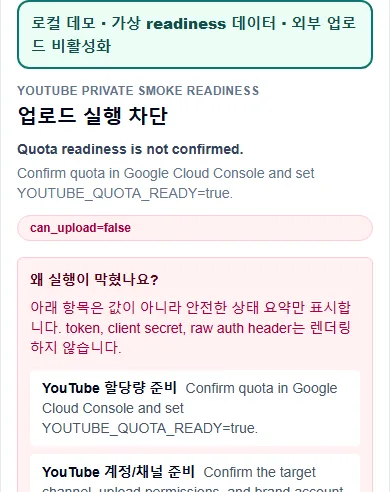
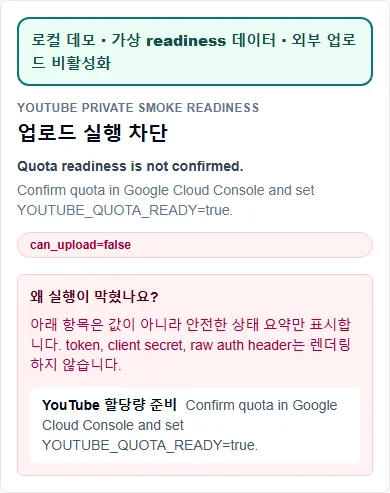
fix(evidence): complete final mobile recaptures

diff --git a/config/evidence-sources.ts b/config/evidence-sources.ts
@@ -23,6 +23,9 @@ export type EvidenceCaptureDefinition = {
   textReplacements?: Array<{ selector: string; value: string }>;
   textSubstitutions?: Array<{ from: string; to: string }>;
   disclosureLabel?: string;
+  focusedListItem?: { listSelector: string; includesText: string };
+  requiredVisibleText?: string[];
+  forbiddenVisibleText?: string[];
   settleTimeMs?: number;
   transformations: string[];
   maskSelectors: string[];
@@ -57,11 +60,6 @@ export const evidenceCaptureDefinitions: EvidenceCaptureDefinition[] = [
     route: "/uploads",
     readySelector: "h1:has-text('업로드 준비 대시보드')",
     captureSelector: "main > div.space-y-5 > section:nth-of-type(3)",
-    captureBounds: {
-      startSelector: "[data-evidence-disclosure]",
-      endSelector:
-        "main > div.space-y-5 > section:nth-of-type(3) > div:nth-of-type(2) > div:first-child",
-    },
     captureStyle: `
       main > div.space-y-5 > section:nth-of-type(3) {
         width: 390px !important;
@@ -78,16 +76,41 @@ export const evidenceCaptureDefinitions: EvidenceCaptureDefinition[] = [
         font-size: 15px !important;
         line-height: 1.6 !important;
       }
+      main > div.space-y-5 > section:nth-of-type(3) ul > li ~ li,
+      main > div.space-y-5 > section:nth-of-type(3) > div:nth-of-type(2) > div + div,
+      main > div.space-y-5 > section:nth-of-type(3) > div:nth-of-type(n+3) {
+        display: none !important;
+      }
     `,
     disclosureLabel: "로컬 데모 · 가상 readiness 데이터 · 외부 업로드 비활성화",
+    focusedListItem: {
+      listSelector:
+        "main > div.space-y-5 > section:nth-of-type(3) > div:nth-of-type(2) > div:first-child > ul",
+      includesText: "YouTube 할당량 준비",
+    },
+    requiredVisibleText: [
+      "로컬 데모",
+      "외부 업로드 비활성화",
+      "업로드 실행 차단",
+      "왜 실행이 막혔나요?",
+      "YouTube 할당량 준비",
+      "Confirm quota in Google Cloud Console and set YOUTUBE_QUOTA_READY=true.",
+      "token, client secret, raw auth header는 렌더링하지 않습니다.",
+    ],
     transformations: [
       "390px 세로형으로 기존 readiness 섹션을 재배치",
-      "기존 차단 사유 패널까지만 집중 캡처",
+      "첫 번째 차단 사유와 사람의 다음 조치를 행 전체로 표시",
+      "추가 차단 항목과 관련 없는 서버 env 안내 카드 제외",
+      "외곽 readiness 섹션의 하단 padding까지 전체 캡처해 카드 중간 잘림 방지",
       "로컬 데모·외부 업로드 비활성화 disclosure 배너 추가",
       "navigation·Next.js 개발 overlay 제외",
     ],
     maskSelectors: [],
-    hideSelectors: ["nextjs-portal"],
+    hideSelectors: [
+      "nextjs-portal",
+      "main > div.space-y-5 > section:nth-of-type(3) > div:nth-of-type(2) > div:nth-child(2)",
+      "main > div.space-y-5 > section:nth-of-type(3) > div:nth-of-type(n+3)",
+    ],
     viewport: { width: 460, height: 1100 },
     altKo: "외부 업로드 가능 여부와 차단 사유, 다음 조치가 분리된 승인형 자동화 준비 화면",
     captionKo:
@@ -95,6 +118,7 @@ export const evidenceCaptureDefinitions: EvidenceCaptureDefinition[] = [
     dataMode: "local-demo",
     claimSupportedKo: "승인 문구와 준비 조건이 충족되기 전 외부 업로드를 차단하는 UI 경계",
     claimNotSupportedKo: "실제 플랫폼 업로드 성공, 매출 또는 운영시간 절감",
+    minRenderedHeightAt390: 420,
   },
   {
     id: "commerce-run-audit-log",
@@ -355,6 +379,12 @@ export const evidenceCaptureDefinitions: EvidenceCaptureDefinition[] = [
     textReplacements: [
       {
         selector:
+          "main[data-demo-dashboard='readonly'] > div > div:first-child p",
+        value:
+          "이 화면은 저장되지 않는 가상 데이터입니다. 실제 고객·매출·재방문 성과를 뜻하지 않습니다.",
+      },
+      {
+        selector:
           "main[data-demo-dashboard='readonly'] > div > div:nth-of-type(2) h1",
         value: "가상 데모 매장",
       },
@@ -362,6 +392,11 @@ export const evidenceCaptureDefinitions: EvidenceCaptureDefinition[] = [
         selector:
           "main[data-demo-dashboard='readonly'] > div > div:nth-of-type(2) > div:first-child p",
         value: "로컬 데모 · 읽기 전용",
+      },
+      {
+        selector:
+          "main[data-demo-dashboard='readonly'] > div > section:nth-of-type(1) > article:first-child > p:first-of-type",
+        value: "고객 기록",
       },
     ],
     textSubstitutions: [
@@ -371,10 +406,32 @@ export const evidenceCaptureDefinitions: EvidenceCaptureDefinition[] = [
       { from: "이서연", to: "샘플 고객 C" },
     ],
     disclosureLabel: "로컬 데모 · 가상 데이터 · 읽기 전용",
+    requiredVisibleText: [
+      "로컬 데모 · 가상 데이터 · 읽기 전용",
+      "가상 데모 매장",
+      "이 화면은 저장되지 않는 가상 데이터입니다.",
+      "실제 고객·매출·재방문 성과를 뜻하지 않습니다.",
+      "고객 기록",
+      "예약",
+      "웨이팅",
+      "QR 주문",
+    ],
+    forbiddenVisibleText: [
+      "무료로 시작",
+      "실제 매장 관리",
+      "매출 상승",
+      "고객 증가",
+      "재방문 향상",
+      "AI 예측",
+      "실시간 성과",
+      "production-ready",
+    ],
     settleTimeMs: 1600,
     transformations: [
       "기존 매장명을 가상 데모 매장으로 치환",
       "기존 운영 상태 문구를 로컬 데모·읽기 전용으로 치환",
+      "무료 시작·실제 매장 관리 홍보 문구를 저장되지 않는 가상 데이터 안내로 치환",
+      "첫 지표를 고객 기록으로 명확화",
       "DOM의 데모 고객명을 샘플 고객 A·B·C로 치환",
       "390px 세로형으로 기존 4개 지표 카드를 재배치",
       "fixture 수치의 변화율·성과성 보조 문구 제외",

diff --git a/scripts/capture-project-evidence.ts b/scripts/capture-project-evidence.ts
@@ -273,9 +273,33 @@ async function captureOne(
     for (const selector of definition.hideSelectors) {
       await page.locator(selector).evaluateAll((elements) => {
         for (const element of elements) {
-          (element as HTMLElement).style.display = "none";
+          element.remove();
         }
       });
+    }
+    if (definition.focusedListItem) {
+      const list = page.locator(definition.focusedListItem.listSelector);
+      if ((await list.count()) !== 1) {
+        throw new Error(
+          `focused list selector must resolve exactly once: ${definition.focusedListItem.listSelector}`,
+        );
+      }
+      const items = list.locator(":scope > li");
+      if ((await items.count()) < 1) {
+        throw new Error("focused list selector has no direct list items");
+      }
+      await items.evaluateAll((elements, includesText) => {
+        for (const element of elements) {
+          if (!(element.textContent ?? "").includes(includesText)) {
+            element.remove();
+          }
+        }
+      }, definition.focusedListItem.includesText);
+      if ((await list.locator(":scope > li").count()) !== 1) {
+        throw new Error(
+          `focused list must retain exactly one item containing: ${definition.focusedListItem.includesText}`,
+        );
+      }
     }
 
     const target = page.locator(definition.captureSelector);
@@ -303,6 +327,46 @@ async function captureOne(
         });
         element.prepend(banner);
       }, definition.disclosureLabel);
+    }
+
+    const visibleCaptureText = (await target.evaluate((element) => {
+      const visibleText: string[] = [];
+      const walker = document.createTreeWalker(element, NodeFilter.SHOW_TEXT);
+      let node = walker.nextNode();
+      while (node) {
+        const parent = node.parentElement;
+        if (parent) {
+          const style = window.getComputedStyle(parent);
+          if (
+            parent.getClientRects().length > 0 &&
+            style.display !== "none" &&
+            style.visibility !== "hidden" &&
+            style.opacity !== "0"
+          ) {
+            visibleText.push(node.textContent ?? "");
+          }
+        }
+        node = walker.nextNode();
+      }
+      return visibleText.join(" ");
+    }))
+      .replace(/\s+/g, " ")
+      .trim();
+    const missingVisibleText = (definition.requiredVisibleText ?? []).filter(
+      (value) => !visibleCaptureText.includes(value),
+    );
+    if (missingVisibleText.length > 0) {
+      throw new Error(
+        `Capture target is missing required visible text: ${missingVisibleText.join(", ")}`,
+      );
+    }
+    const forbiddenVisibleText = (definition.forbiddenVisibleText ?? []).filter(
+      (value) => visibleCaptureText.includes(value),
+    );
+    if (forbiddenVisibleText.length > 0) {
+      throw new Error(
+        `Capture target contains forbidden visible text: ${forbiddenVisibleText.join(", ")}`,
+      );
     }
 
     const scanText = await collectScanText(page, definition);
@@ -447,12 +511,8 @@ async function collectScanText(
   definition: EvidenceCaptureDefinition,
 ) {
   const captureSelector = JSON.stringify(definition.captureSelector);
-  const excludedSelectors = JSON.stringify([
-    ...definition.maskSelectors,
-    ...definition.hideSelectors,
-  ]);
   return (await page.evaluate(`(() => {
-    const excluded = ["script", "style", "noscript", ...${excludedSelectors}];
+    const excluded = ["script", "style", "noscript"];
     const collect = (element) => {
       if (!element) return "";
       const clone = element.cloneNode(true);
